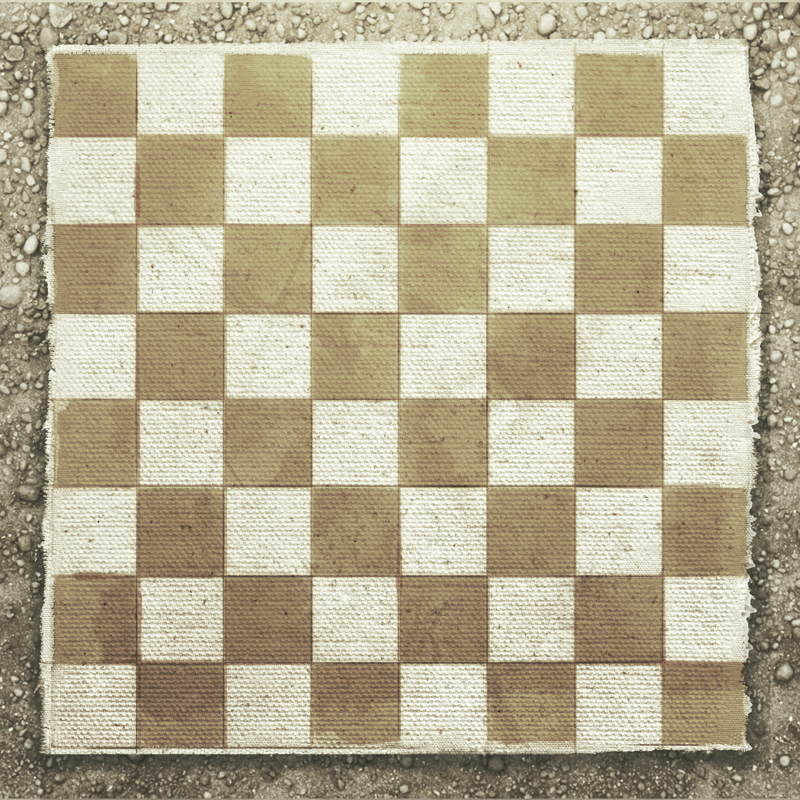
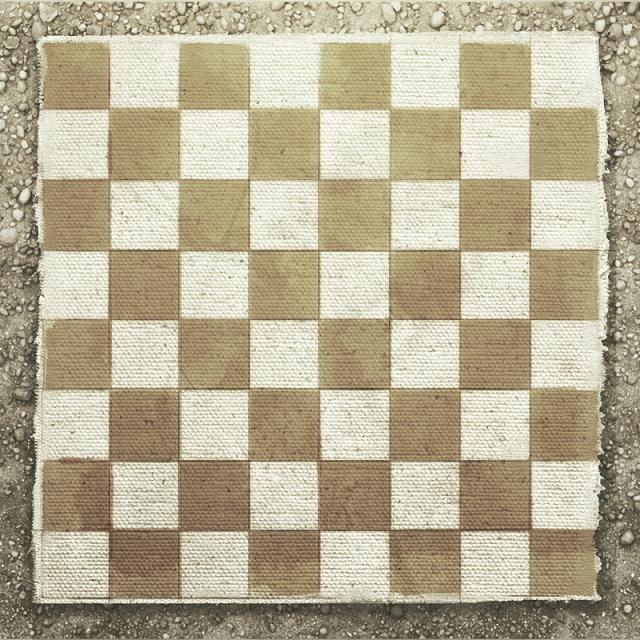
Added soldier/guerilla pieces. Resized the board background.

diff --git a/style/board.css b/style/board.css
@@ -74,20 +74,20 @@ div.selected {
 }
 
 @-webkit-keyframes myanim {
-	0%, 100% { -webkit-transform: rotate(-20deg) scale3d(1, 1, 1); zoom: 1; }
-	50%      { -webkit-transform: rotate(20deg) scale3d(1.3, 1.3, 1); zoom: 1; }
+	0%, 100% { -webkit-transform: rotate(0deg) scale3d(1, 1, 1); zoom: 1; }
+	50%      { -webkit-transform: rotate(20deg) scale3d(1.2, 1.2, 1); zoom: 1; }
 }
 @-moz-keyframes myanim {
-	0%, 100% { -moz-transform: rotate(-20deg) scale3d(1, 1, 1); zoom: 1; }
-	50%      { -moz-transform: rotate(20deg) scale3d(1.3, 1.3, 1); zoom: 1; }
+	0%, 100% { -moz-transform: rotate(0deg) scale3d(1, 1, 1); zoom: 1; }
+	50%      { -moz-transform: rotate(20deg) scale3d(1.2, 1.2, 1); zoom: 1; }
 }
 @-o-keyframes myanim {
-	0%, 100% { -o-transform: rotate(-20deg) scale3d(1, 1, 1); zoom: 1; }
-	50%      { -o-transform: rotate(20deg) scale3d(1.3, 1.3, 1); zoom: 1; }
+	0%, 100% { -o-transform: rotate(0deg) scale3d(1, 1, 1); zoom: 1; }
+	50%      { -o-transform: rotate(20deg) scale3d(1.2, 1.2, 1); zoom: 1; }
 }
 @keyframes myanim {
-	0%, 100% { transform: rotate(-20deg) scale3d(1, 1, 1); zoom: 1; }
-	50%      { transform: rotate(20deg) scale3d(1.3, 1.3, 1); zoom: 1; }
+	0%, 100% { transform: rotate(0deg) scale3d(1, 1, 1); zoom: 1; }
+	50%      { transform: rotate(20deg) scale3d(1.2, 1.2, 1); zoom: 1; }
 }
 
 .square {

diff --git a/index.html b/index.html
@@ -7,6 +7,7 @@
 		<script src="/socket.io/socket.io.js"></script>
 		<script>
 			var socket = io.connect();
+			var g_boardType = 'guerilla';
 			var printMessage = function(data) {
 				var messageDiv = document.createElement('div');
 				messageDiv.innerHTML = '<span style="padding-right: 15px; color: red;">' + data.user + 
@@ -92,7 +93,7 @@
 
 				var board = $('#checkers');
 				board.css('position', 'relative');
-				board.css('overflow', 'auto');
+				board.css('overflow', 'hidden');
 
 				board.children('div.square').each(function(index, square) {
 					square = $(square);
@@ -117,7 +118,8 @@
 				});
 
 				socket.on('board_type', function(boardType) {
-					$('.board').addClass(boardType + '_board');
+					g_boardType = boardType;
+					$('.board').addClass(g_boardType + '_board');
 				});
 
 				socket.on('num_connected_users', function(numConnectedUsers) {
@@ -159,7 +161,7 @@
 							return;
 						}
 						square = $(square);
-						square.html('<img src="white_draughts_man.png" width=68 height=68 alt="white" />');
+						square.html('<img src="images/' + g_boardType + '/soldier_piece.png" width=68 height=68 alt="white" />');
 						square.children('img').each(function(index, pieceImage) {
 							pieceImage.boardPosition = position;
 							$(pieceImage).draggable({

diff --git a/server.js b/server.js
@@ -129,7 +129,6 @@ app.get('/client/*', function(req, res) {
 mongoose.connect('mongodb://localhost/lvg');
 app.listen(portNumber);
 
-var piece = '<img src="white_draughts_man.png" width=68 height=68 alt="white" />';
 var checkers = new Checkers.GameState;
 
 // successful connection
@@ -138,7 +137,8 @@ function userConnected(socket) {
 	// add connected user
 	++connectedUsers;
 	socket.emit('num_connected_users', connectedUsers);
-	socket.emit('board_type', (connectedUsers % 2 === 0) ? 'guerilla' : 'soldier');
+	socket.boardType = (connectedUsers % 2 === 0) ? 'guerilla' : 'soldier';
+	socket.emit('board_type', socket.boardType);
 	socket.broadcast.emit('num_connected_users', connectedUsers);
 
 	// welcome message
@@ -176,7 +176,7 @@ function userConnected(socket) {
 	// checkers protocol
 	socket.on('move', function(data) {
 		console.log('move requested');
-		var result = checkers.move(data.piece, data.position);
+		var result = checkers.moveSoldierPiece(data.piece, data.position);
 		refreshBoard(socket, result);
 	});
 

diff --git a/lib/checkers.js b/lib/checkers.js
@@ -148,16 +148,20 @@ GameState.prototype.isValidSoldierMove = function(soldierPiece, destination) {
 	return xDiff === 1 && yDiff === 1;
 };
 
-// TODO: moveSoldierPiece
-GameState.prototype.move = function(piecePosition, destination) {
+/**
+ * Move a soldier piece at piecePosition to the given destination.
+ * @return {boolean} Whether the piece was successfully moved.
+ */
+GameState.prototype.moveSoldierPiece = function(piecePosition, destination) {
 	validateSoldierPosition(piecePosition);
 	validateSoldierPosition(destination);
 	var soldierPiece = this.soldierPieceAt(piecePosition);
 	if (!this.isValidSoldierMove(soldierPiece, destination)) {
-		return;
+		return false;
 	}
 	soldierPiece.position.x = destination.x;
 	soldierPiece.position.y = destination.y;
+	return true;
 };
 
 // exports
